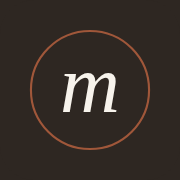
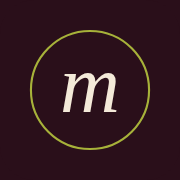
Deep plum and olive as the main look
- Default theme: deep plum background with layered plum panels, olive
  buttons and highlights, and warm cream text
- Cream light theme with plum buttons as the alternative; Automatic
  follows the device (light by day, plum at night)
- Recipe tiles, guide cards and At home shelves take their colors from
  the theme: olive, raspberry and oxblood in plum, pastels in light
- Olive section labels and wordmark; plum and olive app icon

Claude-Session: https://claude.ai/code/session_017GGxEp49S7uuFZmog9BHbL

Changed region(s): [[0.1667, 0.1667, 0.8333, 0.8333]]

diff --git a/src/styles.css b/src/styles.css
@@ -1,17 +1,32 @@
 /* mise: a calm, native-feeling recipe app. System type, grouped sections, one coral accent. */
 
 :root {
-  /* matcha paper, near-white cards, deep plum for actions; glaze pastels for accents */
-  --bg: #eef0e6;
-  --surface: #f9faf4;
-  --surface-strong: #e2e5d6;
-  --ink: #22261e;
-  --muted: #6f7566;
-  --rule: rgba(34, 38, 30, 0.12);
-  --accent: #5e2140;
-  --accent-ink: #ffffff;
-  --accent-text: #5e2140;
-  --ready: #4f6b2a;
+  /* deep plum, olive and cream: oxblood leather, raspberries and glossy olives */
+  --bg: #2a0f1a;
+  --surface: #3a1625;
+  --surface-strong: #4b1d31;
+  --ink: #f4ead9;
+  --muted: #c4a9a6;
+  --rule: rgba(244, 234, 217, 0.12);
+  --accent: #a7b23a;
+  --accent-ink: #1f2408;
+  --accent-text: #c3cc5a;
+  --ready: #c3cc5a;
+  --placeholder-ink: rgba(244, 234, 217, 0.35);
+  --tile-1: #4b1d31;
+  --tile-2: #3b3f17;
+  --tile-3: #5a1424;
+  --tile-4: #452033;
+  --tile-5: #34391a;
+  --tile-6: #5c2a3c;
+  --how-1: #3b3f17;
+  --how-2: #4b1d31;
+  --how-3: #5a1424;
+  --how-ink: #f4ead9;
+  --how-icon: #c3cc5a;
+  --shelf-mix: 22%;
+  --chip: rgba(244, 234, 217, 0.08);
+  color-scheme: dark;
   --matcha: #c4c48b;
   --butter: #fddd92;
   --orchid: #d4c0dc;
@@ -21,38 +36,65 @@
   --radius: 16px;
   --font: 'Inter Tight Variable', system-ui, sans-serif;
   --display: 'Newsreader Variable', Georgia, serif;
+}
+
+/* the light alternative: cream, with plum buttons and olive details */
+:root[data-theme='light'] {
+  --bg: #f6f1e7;
+  --surface: #fffaf1;
+  --surface-strong: #ece4d6;
+  --ink: #2a0f1a;
+  --muted: #7a6366;
+  --rule: rgba(42, 15, 26, 0.12);
+  --accent: #5e2140;
+  --accent-ink: #ffffff;
+  --accent-text: #5e2140;
+  --ready: #5d6b14;
+  --placeholder-ink: rgba(42, 15, 26, 0.28);
+  --tile-1: #e3e3c4;
+  --tile-2: #f0d8d3;
+  --tile-3: #e6dbea;
+  --tile-4: #e2efd1;
+  --tile-5: #fbe7b5;
+  --tile-6: #dfedf3;
+  --how-1: #c4c48b;
+  --how-2: #fddd92;
+  --how-3: #d4c0dc;
+  --how-ink: #2a0f1a;
+  --how-icon: #2a0f1a;
+  --shelf-mix: 45%;
+  --chip: rgba(255, 255, 255, 0.7);
   color-scheme: light;
 }
 
-/* dark: chosen, or following the device. Buttons stay deep plum; plum text lightens to rose. */
-:root[data-theme='dark'] {
-  --bg: #141712;
-  --surface: #20251d;
-  --surface-strong: #2c3327;
-  --ink: #eef0e6;
-  --muted: #a3a996;
-  --rule: rgba(238, 240, 230, 0.12);
-  --accent: #6e2a4b;
-  --accent-ink: #ffffff;
-  --accent-text: #e0b0c5;
-  --ready: #b9d58e;
-  color-scheme: dark;
-}
-
-@media (prefers-color-scheme: dark) {
+@media (prefers-color-scheme: light) {
   :root[data-theme='auto'] {
-    --bg: #141712;
-    --surface: #20251d;
-    --surface-strong: #2c3327;
-    --ink: #eef0e6;
-    --muted: #a3a996;
-    --rule: rgba(238, 240, 230, 0.12);
-    --accent: #6e2a4b;
+    --bg: #f6f1e7;
+    --surface: #fffaf1;
+    --surface-strong: #ece4d6;
+    --ink: #2a0f1a;
+    --muted: #7a6366;
+    --rule: rgba(42, 15, 26, 0.12);
+    --accent: #5e2140;
     --accent-ink: #ffffff;
-    --accent-text: #e0b0c5;
-    --ready: #b9d58e;
-    color-scheme: dark;
-  }
+    --accent-text: #5e2140;
+    --ready: #5d6b14;
+    --placeholder-ink: rgba(42, 15, 26, 0.28);
+    --tile-1: #e3e3c4;
+    --tile-2: #f0d8d3;
+    --tile-3: #e6dbea;
+    --tile-4: #e2efd1;
+    --tile-5: #fbe7b5;
+    --tile-6: #dfedf3;
+    --how-1: #c4c48b;
+    --how-2: #fddd92;
+    --how-3: #d4c0dc;
+    --how-ink: #2a0f1a;
+    --how-icon: #2a0f1a;
+    --shelf-mix: 45%;
+    --chip: rgba(255, 255, 255, 0.7);
+    color-scheme: light;
+}
 }
 
 * {
@@ -136,6 +178,7 @@ button {
   font-weight: 400;
   font-style: italic;
   letter-spacing: -0.01em;
+  color: var(--accent-text);
   text-decoration: none;
 }
 
@@ -229,7 +272,7 @@ button {
   font-weight: 500;
   letter-spacing: 0.28em;
   text-transform: uppercase;
-  color: var(--muted);
+  color: var(--accent-text);
 }
 
 .group {
@@ -549,18 +592,18 @@ input[type='checkbox'] {
   height: 100%;
   padding: 20px;
   border-radius: var(--radius);
-  background: var(--matcha);
-  color: #2b2326;
+  background: var(--how-1);
+  color: var(--how-ink);
   text-decoration: none;
   transition: transform 200ms ease;
 }
 
 .how li:nth-child(2) a {
-  background: var(--butter);
+  background: var(--how-2);
 }
 
 .how li:nth-child(3) a {
-  background: var(--orchid);
+  background: var(--how-3);
 }
 
 .how a:hover {
@@ -569,7 +612,7 @@ input[type='checkbox'] {
 
 .how .icon {
   margin-bottom: 10px;
-  color: #2b2326;
+  color: var(--how-icon);
 }
 
 .how_title {
@@ -582,7 +625,8 @@ input[type='checkbox'] {
 }
 
 .how_text {
-  color: rgba(43, 35, 38, 0.72);
+  color: var(--how-ink);
+  opacity: 0.75;
   font-size: 15px;
 }
 
@@ -619,7 +663,7 @@ input[type='checkbox'] {
 .recipe_image-empty {
   display: grid;
   place-items: center;
-  color: rgba(43, 35, 38, 0.28);
+  color: var(--placeholder-ink);
 }
 
 .card:hover .recipe_image {
@@ -885,14 +929,14 @@ input[type='checkbox'] {
 .shelf {
   padding: 16px 16px 18px;
   border-radius: var(--radius);
-  background: color-mix(in srgb, var(--shelf) 45%, var(--surface));
+  background: color-mix(in srgb, var(--shelf) var(--shelf-mix), var(--surface));
 }
 
 .shelf_title {
   display: flex;
   justify-content: space-between;
   margin: 0 2px 12px;
-  color: #2b2326;
+  color: var(--ink);
   font-size: 12px;
   font-weight: 500;
   letter-spacing: 0.24em;
@@ -900,7 +944,7 @@ input[type='checkbox'] {
 }
 
 .shelf_title span {
-  color: rgba(43, 35, 38, 0.55);
+  color: var(--muted);
   letter-spacing: 0;
 }
 
@@ -920,8 +964,8 @@ input[type='checkbox'] {
   min-height: 34px;
   padding: 0 4px 0 12px;
   border-radius: 999px;
-  background: rgba(255, 255, 255, 0.7);
-  color: #2b2326;
+  background: var(--chip);
+  color: var(--ink);
   font-size: 15px;
 }
 
@@ -934,12 +978,12 @@ input[type='checkbox'] {
   border: none;
   border-radius: 50%;
   background: none;
-  color: rgba(43, 35, 38, 0.5);
+  color: var(--muted);
 }
 
 .stock button:hover {
-  background: rgba(43, 35, 38, 0.08);
-  color: #2b2326;
+  background: var(--rule);
+  color: var(--ink);
 }
 
 /* forms and panels */
@@ -1402,57 +1446,5 @@ input[type='checkbox'] {
   .timer-done {
     transition: none;
     animation: none;
-  }
-}
-
-/* placeholders stay quiet in the dark theme */
-:root[data-theme='dark'] .recipe_image-empty {
-  background: var(--surface-strong) !important;
-  color: rgba(255, 255, 255, 0.35);
-}
-
-@media (prefers-color-scheme: dark) {
-  :root[data-theme='auto'] .recipe_image-empty {
-    background: var(--surface-strong) !important;
-    color: rgba(255, 255, 255, 0.35);
-  }
-}
-
-/* shelves in the dark theme: a hint of colour, light text */
-:root[data-theme='dark'] .shelf {
-  background: color-mix(in srgb, var(--shelf) 14%, var(--surface));
-}
-
-:root[data-theme='dark'] .shelf_title,
-:root[data-theme='dark'] .stock li {
-  color: var(--ink);
-}
-
-:root[data-theme='dark'] .shelf_title span,
-:root[data-theme='dark'] .stock button {
-  color: var(--muted);
-}
-
-:root[data-theme='dark'] .stock li {
-  background: rgba(255, 255, 255, 0.07);
-}
-
-@media (prefers-color-scheme: dark) {
-  :root[data-theme='auto'] .shelf {
-    background: color-mix(in srgb, var(--shelf) 14%, var(--surface));
-  }
-
-  :root[data-theme='auto'] .shelf_title,
-  :root[data-theme='auto'] .stock li {
-    color: var(--ink);
-  }
-
-  :root[data-theme='auto'] .shelf_title span,
-  :root[data-theme='auto'] .stock button {
-    color: var(--muted);
-  }
-
-  :root[data-theme='auto'] .stock li {
-    background: rgba(255, 255, 255, 0.07);
   }
 }

diff --git a/src/lib/theme.js b/src/lib/theme.js
@@ -1,8 +1,8 @@
-// Light, dark, or follow the device. The choice is remembered on this device.
+// Deep plum by default, a cream light theme, or follow the device. Remembered on this device.
 export const themes = [
-  { id: 'auto', name: 'Automatic', swatch: ['#eef0e6', '#141712'] },
-  { id: 'light', name: 'Light', swatch: ['#eef0e6', '#5e2140'] },
-  { id: 'dark', name: 'Dark', swatch: ['#141712', '#6e2a4b'] },
+  { id: 'plum', name: 'Plum', swatch: ['#2a0f1a', '#a7b23a'] },
+  { id: 'light', name: 'Light', swatch: ['#f6f1e7', '#5e2140'] },
+  { id: 'auto', name: 'Automatic', swatch: ['#f6f1e7', '#2a0f1a'] },
 ];
 
 const KEY = 'mise-theme';
@@ -10,9 +10,9 @@ const KEY = 'mise-theme';
 export function getTheme() {
   try {
     const saved = localStorage.getItem(KEY);
-    return themes.some((t) => t.id === saved) ? saved : 'auto';
+    return themes.some((t) => t.id === saved) ? saved : 'plum';
   } catch {
-    return 'auto';
+    return 'plum';
   }
 }
 

diff --git a/src/components/RecipeCard.jsx b/src/components/RecipeCard.jsx
@@ -2,9 +2,8 @@ import { Link } from 'react-router-dom';
 import { formatTime } from '../lib/format';
 import Icon from './Icon';
 
-// glaze pastels for recipes without a photo, picked from the recipe's id
-const TINTS = ['#e3e3c4', '#fbe7b5', '#e6dbea', '#dfedf3', '#e2efd1', '#f0d8d3'];
-const tintFor = (id) => TINTS[[...id].reduce((n, c) => n + c.charCodeAt(0), 0) % TINTS.length];
+// a tile colour for recipes without a photo, picked from the recipe's id (colours come from the theme)
+const tintFor = (id) => `var(--tile-${([...id].reduce((n, c) => n + c.charCodeAt(0), 0) % 6) + 1})`;
 
 export function RecipeImage({ recipe, className = '' }) {
   if (recipe.image) return <img src={recipe.image} alt="" className={`recipe_image ${className}`} loading="lazy" />;

diff --git a/index.html b/index.html
@@ -5,8 +5,7 @@
     <meta name="viewport" content="width=device-width, initial-scale=1.0, viewport-fit=cover">
     <title>mise</title>
     <meta name="description" content="A recipe box that cooks with you.">
-    <meta name="theme-color" content="#eef0e6" media="(prefers-color-scheme: light)">
-    <meta name="theme-color" content="#141712" media="(prefers-color-scheme: dark)">
+    <meta name="theme-color" content="#2a0f1a">
     <link rel="icon" href="/icon.svg" type="image/svg+xml">
     <link rel="apple-touch-icon" href="/apple-touch-icon.png">
   </head>

diff --git a/vite.config.js b/vite.config.js
@@ -15,8 +15,8 @@ export default defineConfig({
         name: 'mise',
         short_name: 'mise',
         description: 'Provisions & recipes: a recipe box that cooks with you',
-        theme_color: '#eef0e6',
-        background_color: '#eef0e6',
+        theme_color: '#2a0f1a',
+        background_color: '#2a0f1a',
         display: 'standalone',
         icons: [
           { src: 'icon-192.png', sizes: '192x192', type: 'image/png' },

diff --git a/README.md b/README.md
@@ -11,7 +11,7 @@ A recipe box that cooks with you: calm, warm and easy to read from across the ki
 - **Plan:** pick what to cook each day, then add the whole week to groceries in one tap
 - **Groceries:** "To buy", sorted by aisle, and "At home"; bought items move to At home
 - **Find new recipes:** search [TheMealDB](https://www.themealdb.com) by ingredient and save with one tap
-- **Light, dark or automatic** appearance
+- **Themes:** deep plum (default), a cream light theme, or automatic
 - **Installable:** add it to your phone's home screen and it works offline
 - **Backup:** everything is stored in your browser; export and import it as a JSON file
 
